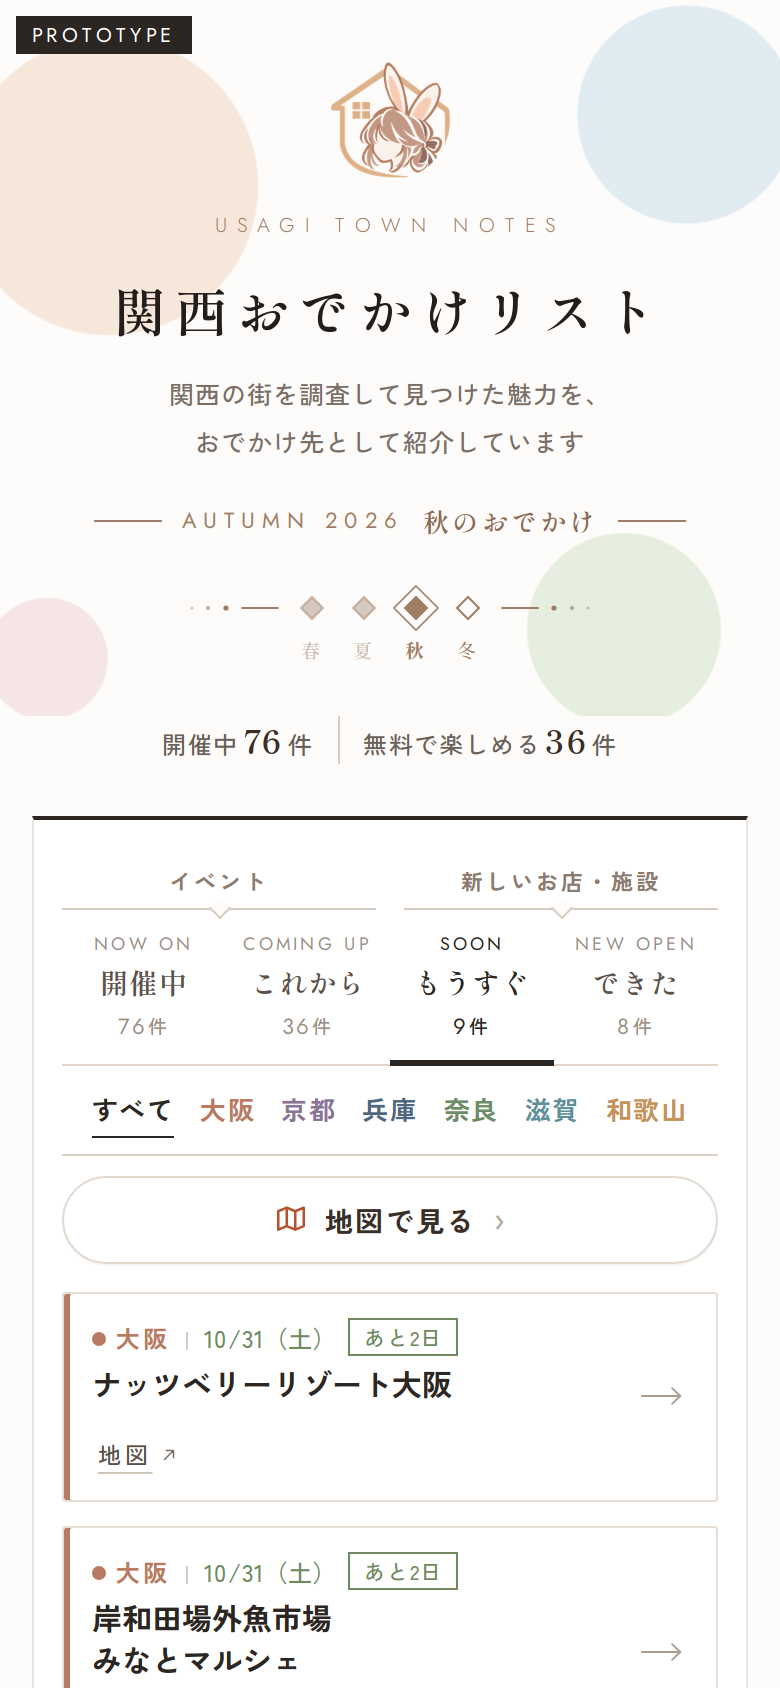
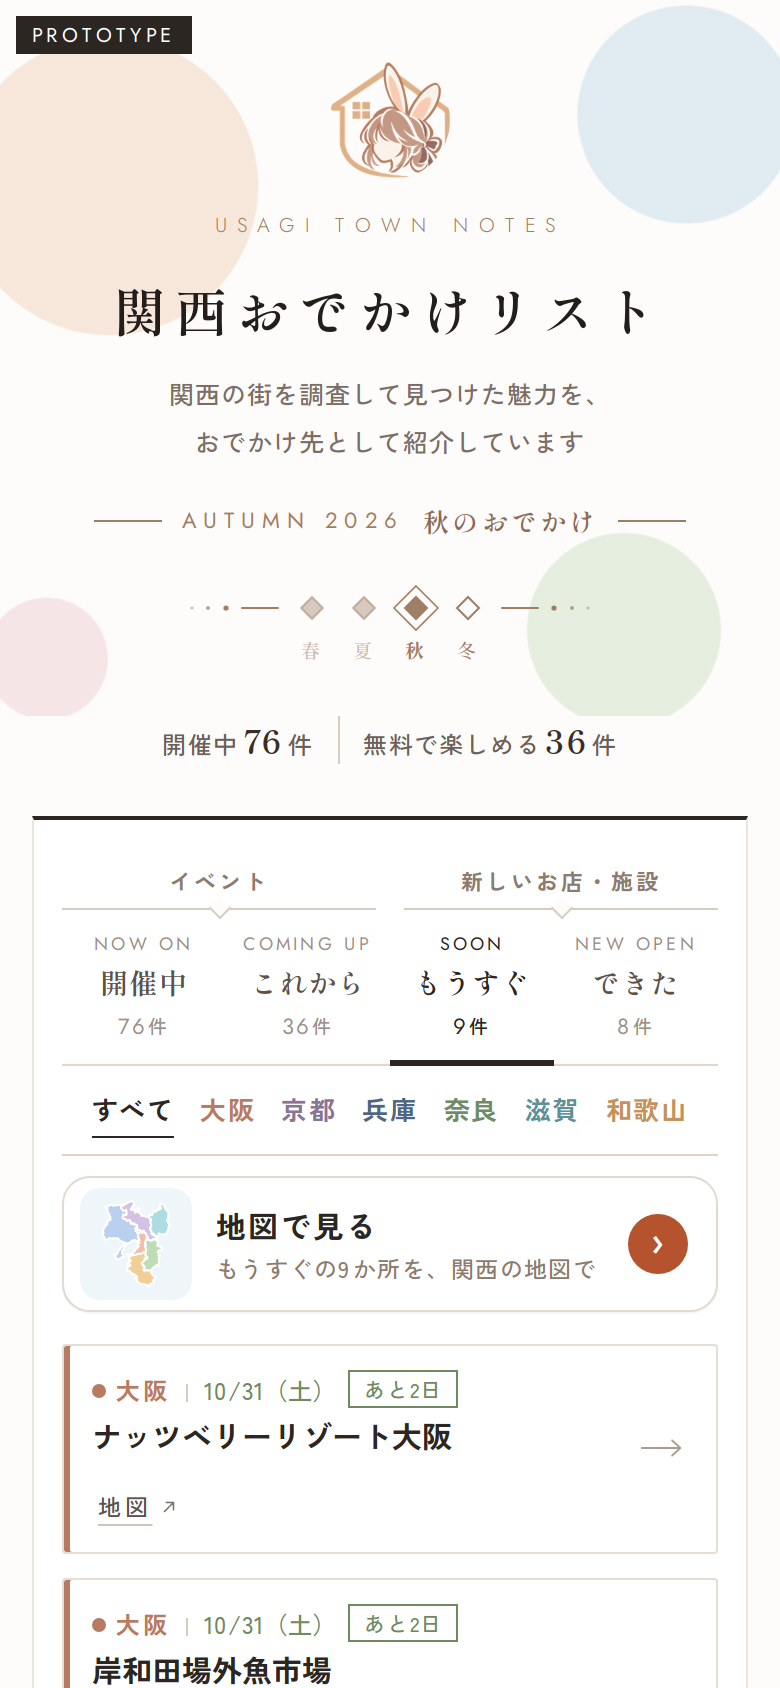
おでかけリスト：地図（TOWN NOTES）を本番に入れる (#199)
* TOWN NOTES（仮）: おでかけ先の場所を緯度経度にする仕組み

Claude-Session: https://claude.ai/code/session_012U6So1FwuhCU8YQS91whDj

* TOWN NOTES（仮）: 地図とピンの仮ページ（links/townnotes/）

Claude-Session: https://claude.ai/code/session_012U6So1FwuhCU8YQS91whDj

* townnotes: geo.json

* TOWN NOTES（仮）: 今のおでかけリストに地図とピンを組み込んだ試作

Claude-Session: https://claude.ai/code/session_012U6So1FwuhCU8YQS91whDj

* 古い試作テンプレートを消す

Claude-Session: https://claude.ai/code/session_012U6So1FwuhCU8YQS91whDj

* townnotes: geo.json

* TOWN NOTES（仮）: もうすぐのピンを点線の輪に

Claude-Session: https://claude.ai/code/session_012U6So1FwuhCU8YQS91whDj

* TOWN NOTES（仮）: 地図を指で拡大できる明るい地図に（区名・駅名つき）

Claude-Session: https://claude.ai/code/session_012U6So1FwuhCU8YQS91whDj

* townnotes: shots

* TOWN NOTES（仮）: 府県名・まとまりの丸・出典の表示を直す

Claude-Session: https://claude.ai/code/session_012U6So1FwuhCU8YQS91whDj

* townnotes: shots

* TOWN NOTES（仮）: イラストの地図に戻す（府県・市区町村の形だけ、明るい色、指で拡大）

Claude-Session: https://claude.ai/code/session_012U6So1FwuhCU8YQS91whDj

* townnotes: shots

* TOWN NOTES（仮）: 府県を選んだとき、ほかの府県は薄いベージュに

Claude-Session: https://claude.ai/code/session_012U6So1FwuhCU8YQS91whDj

* townnotes: shots

* TOWN NOTES 試作 v5: 押すだけで 関西→府県→市・区 と寄る地図（指2本なし）

Claude-Session: https://claude.ai/code/session_012U6So1FwuhCU8YQS91whDj

* townnotes: shots

* TOWN NOTES 試作: 府県ボタンと件数を地図のすぐ上へ

Claude-Session: https://claude.ai/code/session_012U6So1FwuhCU8YQS91whDj

* townnotes: shots

* TOWN NOTES 試作: 件数の行は上に戻し、府県ボタンだけ地図の上へ
[…]

diff --git a/links/townnotes/map.js b/links/townnotes/map.js
@@ -447,7 +447,9 @@ function setOpen(v,fromPop){if(v===OPEN&&v)return;OPEN=v;FS=v;
   buildHead();carSig="";if(!loading)load();else if(ready){lastSig="";sync()}}
  else{box.classList.remove("fs");box.classList.add("shut");document.documentElement.style.overflow="";sel=null;pop.classList.remove("on");mount()}
  if(v===false)mbUpd()}
-mb.addEventListener("click",function(){setOpen(true)});
+// 本番のリストでだけ「地図で見る」が押された数を数える（試作ページ・オーナーは数えない）
+function cnt1(k){try{if(/\/townnotes\//.test(location.pathname)||/github\.io$/.test(location.hostname)||localStorage.getItem("usagi_owner")==="1")return;var b=JSON.stringify({k:k});if(!(navigator.sendBeacon&&navigator.sendBeacon("/c",b)))fetch("/c",{method:"POST",body:b,keepalive:true})}catch(e){}}
+mb.addEventListener("click",function(){cnt1("地図｜地図で見る");setOpen(true)});
 function toMap(){var y=box.getBoundingClientRect().top+scrollY-12;scrollTo({top:y,behavior:RM?"auto":"smooth"})}
 function sync(){mount();if(!ready||!OPEN)return;var pf=curPref(),sig=pf+"|"+curTab();if(sig===lastSig)return;var first=!lastSig,pfChanged=first||lastSig.split("|")[0]!==pf;lastSig=sig;
  list=items();OTH=others();var tb=curTab();$(".lg",box).innerHTML='<span'+(tb==="もうすぐ"?' class="s"':'')+'>'+esc(tb)+'</span><span class="o">ほかのタブ</span>';$(".lg",box).style.display="flex";sel=null;pop.classList.remove("on");

diff --git a/tools/townnotes/map.src.js b/tools/townnotes/map.src.js
@@ -447,7 +447,9 @@ function setOpen(v,fromPop){if(v===OPEN&&v)return;OPEN=v;FS=v;
   buildHead();carSig="";if(!loading)load();else if(ready){lastSig="";sync()}}
  else{box.classList.remove("fs");box.classList.add("shut");document.documentElement.style.overflow="";sel=null;pop.classList.remove("on");mount()}
  if(v===false)mbUpd()}
-mb.addEventListener("click",function(){setOpen(true)});
+// 本番のリストでだけ「地図で見る」が押された数を数える（試作ページ・オーナーは数えない）
+function cnt1(k){try{if(/\/townnotes\//.test(location.pathname)||/github\.io$/.test(location.hostname)||localStorage.getItem("usagi_owner")==="1")return;var b=JSON.stringify({k:k});if(!(navigator.sendBeacon&&navigator.sendBeacon("/c",b)))fetch("/c",{method:"POST",body:b,keepalive:true})}catch(e){}}
+mb.addEventListener("click",function(){cnt1("地図｜地図で見る");setOpen(true)});
 function toMap(){var y=box.getBoundingClientRect().top+scrollY-12;scrollTo({top:y,behavior:RM?"auto":"smooth"})}
 function sync(){mount();if(!ready||!OPEN)return;var pf=curPref(),sig=pf+"|"+curTab();if(sig===lastSig)return;var first=!lastSig,pfChanged=first||lastSig.split("|")[0]!==pf;lastSig=sig;
  list=items();OTH=others();var tb=curTab();$(".lg",box).innerHTML='<span'+(tb==="もうすぐ"?' class="s"':'')+'>'+esc(tb)+'</span><span class="o">ほかのタブ</span>';$(".lg",box).style.display="flex";sel=null;pop.classList.remove("on");

diff --git a/links/townnotes/index.html b/links/townnotes/index.html
@@ -596,4 +596,4 @@ function upd(){var first=-1;[].forEach.call(bar.children,function(b,j){var k=n(j
  if(cur<0||!n(cur))show(first<0?0:first);else show(cur);}
 upd();document.addEventListener("click",function(e){if(e.target.closest("#flt,.dflt"))setTimeout(upd,60);});})();
 </script>
-<div style="position:fixed;top:8px;left:8px;z-index:50;font-family:Jost,sans-serif;font-size:10px;letter-spacing:.2em;background:#2B2622;color:#fff;padding:2px 8px;pointer-events:none">PROTOTYPE</div><script src="map.js?v=7d0a264f" defer></script></body></html>
+<div style="position:fixed;top:8px;left:8px;z-index:50;font-family:Jost,sans-serif;font-size:10px;letter-spacing:.2em;background:#2B2622;color:#fff;padding:2px 8px;pointer-events:none">PROTOTYPE</div><script src="map.js?v=b034f733" defer></script></body></html>

diff --git a/links/index.html b/links/index.html
@@ -596,4 +596,4 @@ function upd(){var first=-1;[].forEach.call(bar.children,function(b,j){var k=n(j
  if(cur<0||!n(cur))show(first<0?0:first);else show(cur);}
 upd();document.addEventListener("click",function(e){if(e.target.closest("#flt,.dflt"))setTimeout(upd,60);});})();
 </script>
-</body></html>
+<script src="/townnotes/map.js?v=b034f733" defer></script></body></html>

diff --git a/tools/townnotes/build.py b/tools/townnotes/build.py
@@ -11,6 +11,14 @@ js = js.replace('__MINI__', json.dumps({k: P[k] for k in ['hyogo','kyoto','shiga
 os.makedirs(os.path.join(R, 'links/townnotes'), exist_ok=True)
 open(os.path.join(R, 'links/townnotes/map.js'), 'w', encoding='utf-8').write(js)
 h = open(os.path.join(R, 'links/index.html'), encoding='utf-8').read()
+import re
+# 本番のリスト（links/index.html）の地図の読み込みも、新しい版の ?v= にそろえる
+v = __import__('hashlib').sha1(js.encode('utf-8')).hexdigest()[:8]
+live = re.sub(r'/townnotes/map\.js\?v=[0-9a-f]+', '/townnotes/map.js?v=' + v, h)
+if live != h:
+    open(os.path.join(R, 'links/index.html'), 'w', encoding='utf-8').write(live)
+# 試作ページには本番の読み込みを持ちこまない（下で試作用を足す）
+h = re.sub(r'<script src="/townnotes/map\.js[^"]*" defer></script>', '', h)
 # 試作は links/townnotes/ にあるので、上の階のファイルは ../ で指す（Cloudflareでも予備のGitHubページでも同じに動く）
 for a in ['src="assets/','href="assets/','href="gyosha.html"','href="uru.html"']:
     h = h.replace(a, a.replace('="', '="../'))
